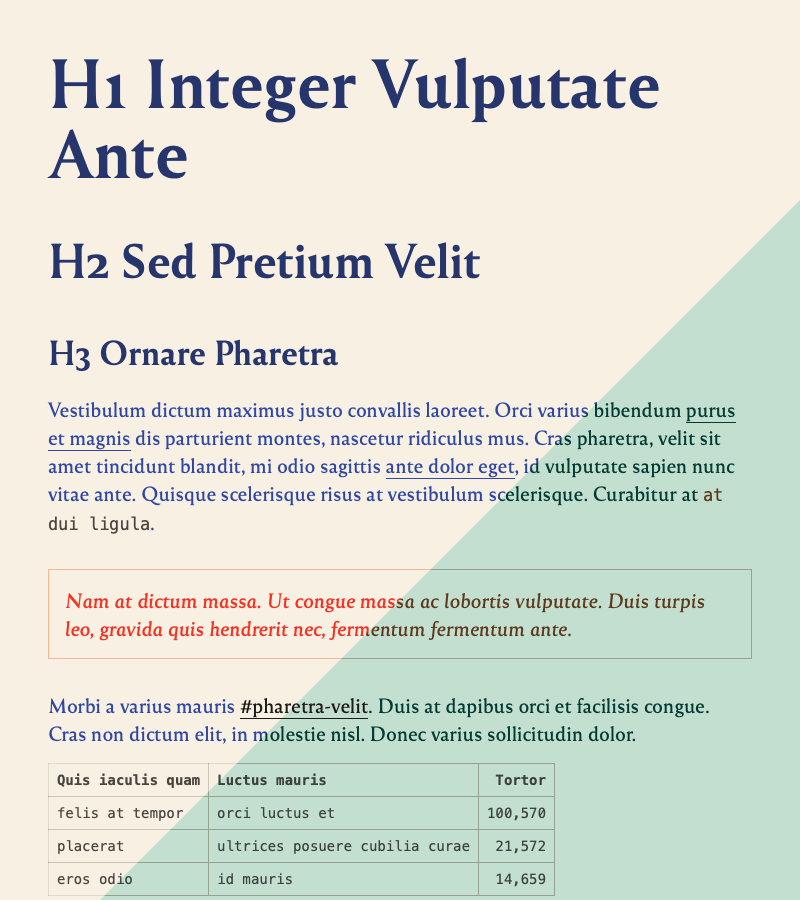
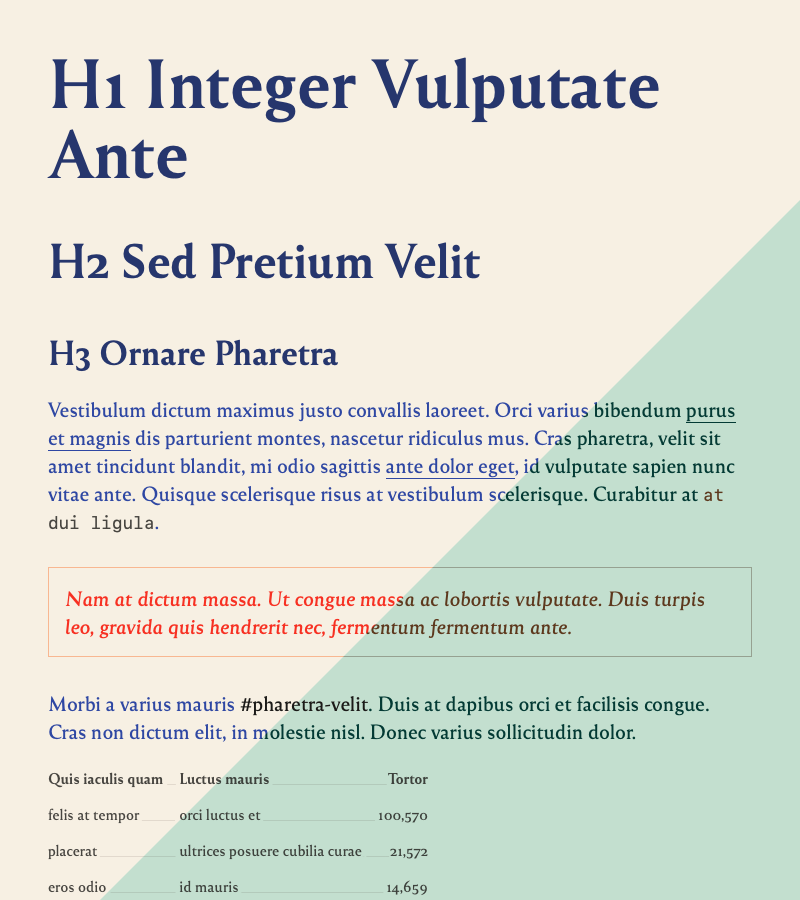
Updated `Chromatophore 1-2` stylesheet (tables, code, tags)

diff --git a/stylesheets/Chromatophore 1-2.css b/stylesheets/Chromatophore 1-2.css
@@ -12,6 +12,7 @@ Description:
   - Fonts: [Reforma 1918](https://pampatype.com/reforma)
 Notes:
   - Headings follow an augmented fourth scale, with identical top-bottom padding
+  - Tables use a big hack to achive the desired visual effect without access to a granular markup
   - Colors from https://github.com/nWODT-Cobalt/color-palettes/blob/main/1969.pdf
 ---
 */
@@ -200,12 +201,55 @@ table {
 table,
 th,
 td {
-	border: 1px solid hsla(40, 6%, 10%, 0.1);
+/* 	border: 1px solid hsla(40, 6%, 10%, 0.1); Previous, conventional style */
+	border: none;
 }
 
 th,
 td {
 	padding: 0.5rem;
+	text-shadow: 	0 1px 0 hsla(37, 57%, 93%, 1.00),
+					0 2px 0 hsla(37, 57%, 93%, 1.00),
+					0 3px 0 hsla(37, 57%, 93%, 1.00),
+					0 4px 0 hsla(37, 57%, 93%, 1.00),
+					0 5px 0 hsla(37, 57%, 93%, 1.00),
+					-5px 0 0 hsla(37, 57%, 93%, 1.00),
+					-4px 0 0 hsla(37, 57%, 93%, 1.00),
+					-3px 0 0 hsla(37, 57%, 93%, 1.00),
+					-2px 0 0 hsla(37, 57%, 93%, 1.00),
+					-1px 0 0 hsla(37, 57%, 93%, 1.00),
+					1px 0 0 hsla(37, 57%, 93%, 1.00),
+					2px 0 0 hsla(37, 57%, 93%, 1.00),
+					1px 0 0 hsla(37, 57%, 93%, 1.00),
+					3px 0 0 hsla(37, 57%, 93%, 1.00),
+					4px 0 0 hsla(37, 57%, 93%, 1.00),
+					5px 0 0 hsla(37, 57%, 93%, 1.00),
+					-5px 5px 0 hsla(37, 57%, 93%, 1.00),
+					-4px 4px 0 hsla(37, 57%, 93%, 1.00),
+					-3px 3px 0 hsla(37, 57%, 93%, 1.00),
+					-2px 2px 0 hsla(37, 57%, 93%, 1.00),
+					-1px 1px 0 hsla(37, 57%, 93%, 1.00),
+					5px 5px 0 hsla(37, 57%, 93%, 1.00),
+					4px 4px 0 hsla(37, 57%, 93%, 1.00),
+					3px 3px 0 hsla(37, 57%, 93%, 1.00),
+					2px 2px 0 hsla(37, 57%, 93%, 1.00),
+					1px 1px 0 hsla(37, 57%, 93%, 1.00);
+}
+
+tr th:first-of-type,
+tr td:first-of-type {
+	padding-left: 0;
+}
+
+tr th:last-of-type,
+tr td:last-of-type {
+	padding-right: 0;
+}
+
+tr  {
[1 lines of base64/hex data omitted]
+	background-repeat: repeat-x;
+	background-position: left 0 bottom 0.75rem;
 }
 
 caption,
@@ -327,10 +371,35 @@ a {
 		color: hsla(25, 52%, 24%, 1.00);
 	}
 
-	.inverted table,
-	.inverted th,
-	.inverted td {
-		border-color: hsla(101, 8%, 60%, 1.00);
+	.inverted  th,
+	.inverted  td {
+		padding: 0.5rem;
+		text-shadow: 	0 1px 0 hsla(146, 31%, 82%, 1.00), /* Interpolée depuis d'autres couleurs de la palette */
+						0 2px 0 hsla(146, 31%, 82%, 1.00), /* Interpolée depuis d'autres couleurs de la palette */
+						0 3px 0 hsla(146, 31%, 82%, 1.00), /* Interpolée depuis d'autres couleurs de la palette */
+						0 4px 0 hsla(146, 31%, 82%, 1.00), /* Interpolée depuis d'autres couleurs de la palette */
+						0 5px 0 hsla(146, 31%, 82%, 1.00), /* Interpolée depuis d'autres couleurs de la palette */
+						-5px 0 0 hsla(146, 31%, 82%, 1.00), /* Interpolée depuis d'autres couleurs de la palette */
+						-4px 0 0 hsla(146, 31%, 82%, 1.00), /* Interpolée depuis d'autres couleurs de la palette */
+						-3px 0 0 hsla(146, 31%, 82%, 1.00), /* Interpolée depuis d'autres couleurs de la palette */
+						-2px 0 0 hsla(146, 31%, 82%, 1.00), /* Interpolée depuis d'autres couleurs de la palette */
+						-1px 0 0 hsla(146, 31%, 82%, 1.00), /* Interpolée depuis d'autres couleurs de la palette */
+						1px 0 0 hsla(146, 31%, 82%, 1.00), /* Interpolée depuis d'autres couleurs de la palette */
+						2px 0 0 hsla(146, 31%, 82%, 1.00), /* Interpolée depuis d'autres couleurs de la palette */
+						1px 0 0 hsla(146, 31%, 82%, 1.00), /* Interpolée depuis d'autres couleurs de la palette */
+						3px 0 0 hsla(146, 31%, 82%, 1.00), /* Interpolée depuis d'autres couleurs de la palette */
+						4px 0 0 hsla(146, 31%, 82%, 1.00), /* Interpolée depuis d'autres couleurs de la palette */
+						5px 0 0 hsla(146, 31%, 82%, 1.00), /* Interpolée depuis d'autres couleurs de la palette */
+						-5px 5px 0 hsla(146, 31%, 82%, 1.00), /* Interpolée depuis d'autres couleurs de la palette */
+						-4px 4px 0 hsla(146, 31%, 82%, 1.00), /* Interpolée depuis d'autres couleurs de la palette */
+						-3px 3px 0 hsla(146, 31%, 82%, 1.00), /* Interpolée depuis d'autres couleurs de la palette */
+						-2px 2px 0 hsla(146, 31%, 82%, 1.00), /* Interpolée depuis d'autres couleurs de la palette */
+						-1px 1px 0 hsla(146, 31%, 82%, 1.00), /* Interpolée depuis d'autres couleurs de la palette */
+						5px 5px 0 hsla(146, 31%, 82%, 1.00), /* Interpolée depuis d'autres couleurs de la palette */
+						4px 4px 0 hsla(146, 31%, 82%, 1.00), /* Interpolée depuis d'autres couleurs de la palette */
+						3px 3px 0 hsla(146, 31%, 82%, 1.00), /* Interpolée depuis d'autres couleurs de la palette */
+						2px 2px 0 hsla(146, 31%, 82%, 1.00), /* Interpolée depuis d'autres couleurs de la palette */
+						1px 1px 0 hsla(37, 57%, 93%, 1.00);
 	}
 
 	.inverted caption,
